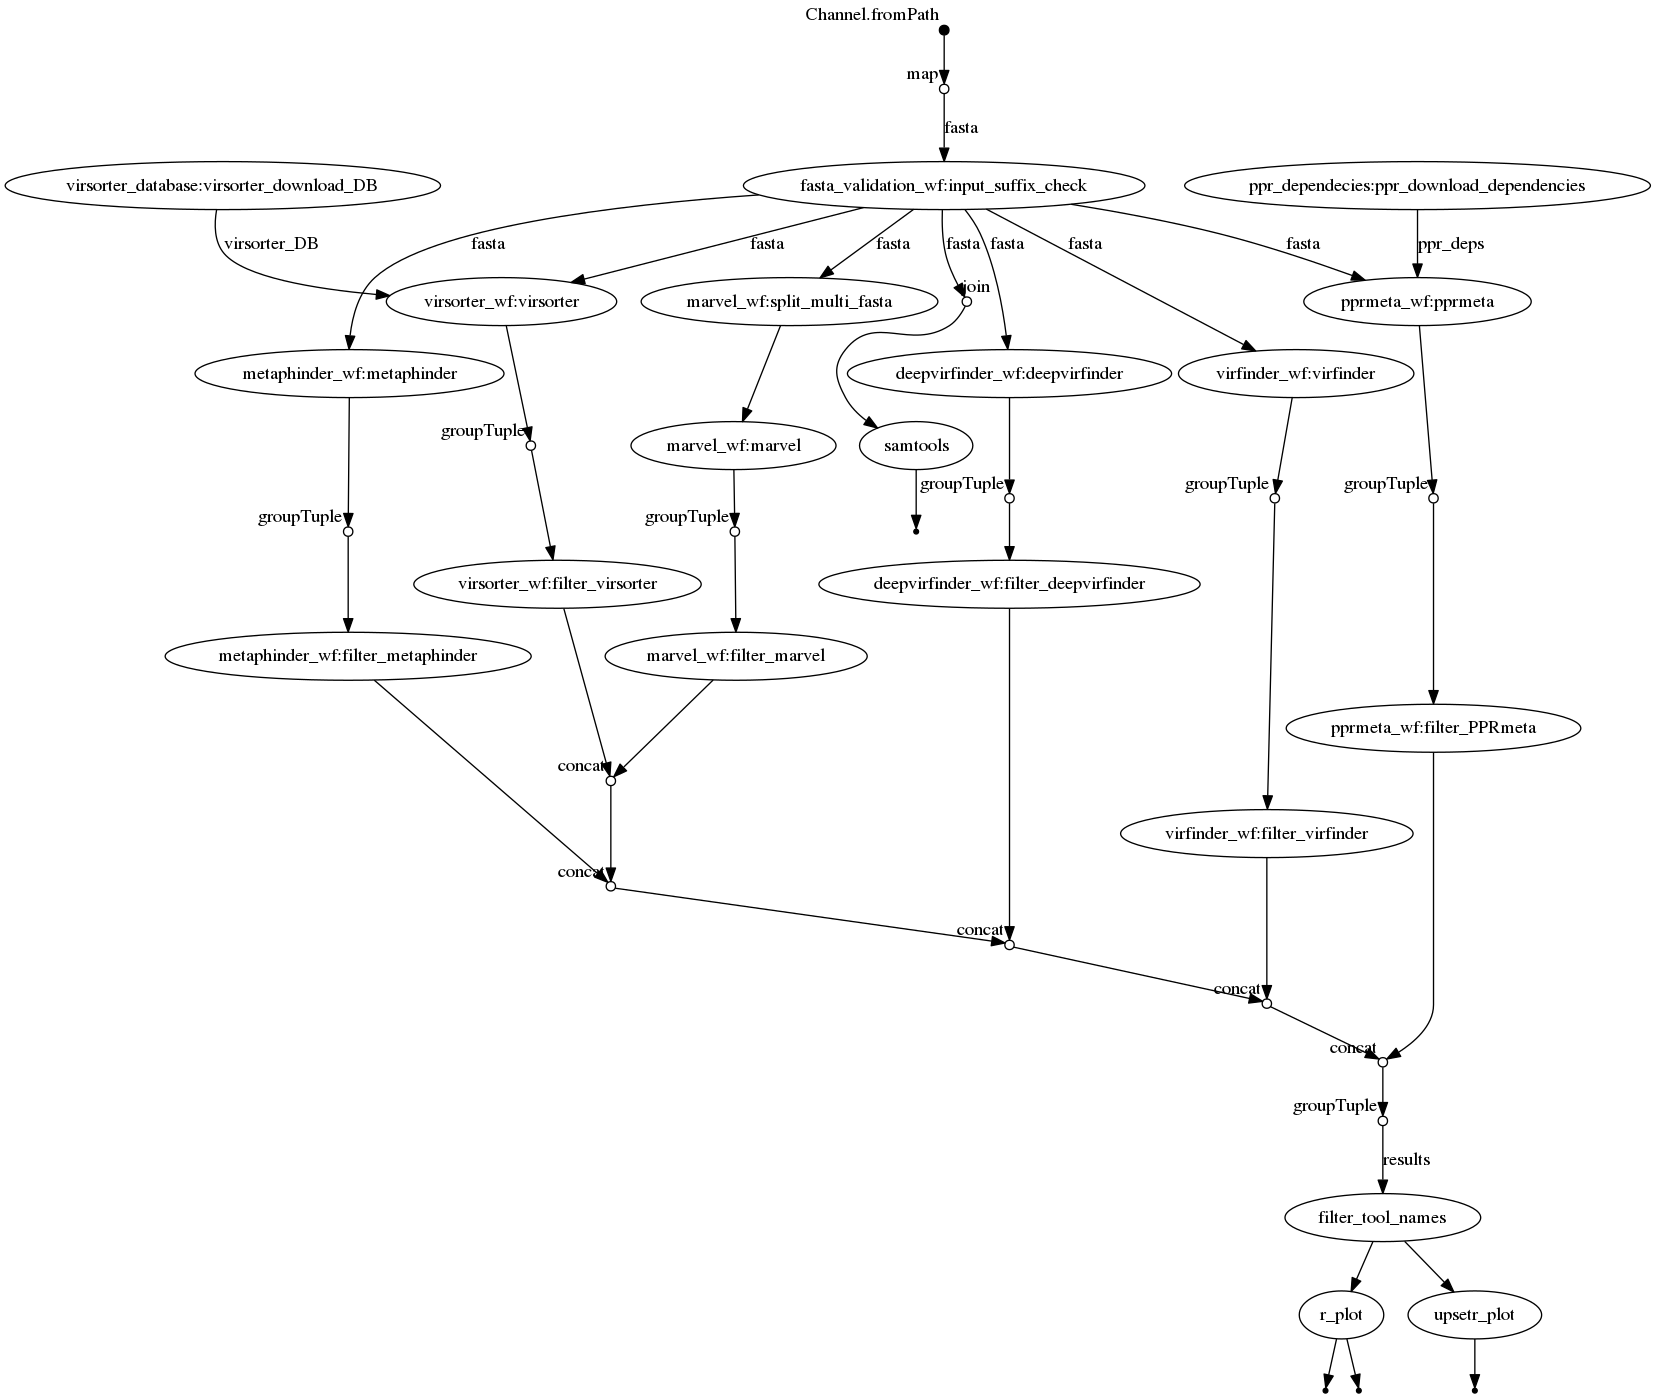
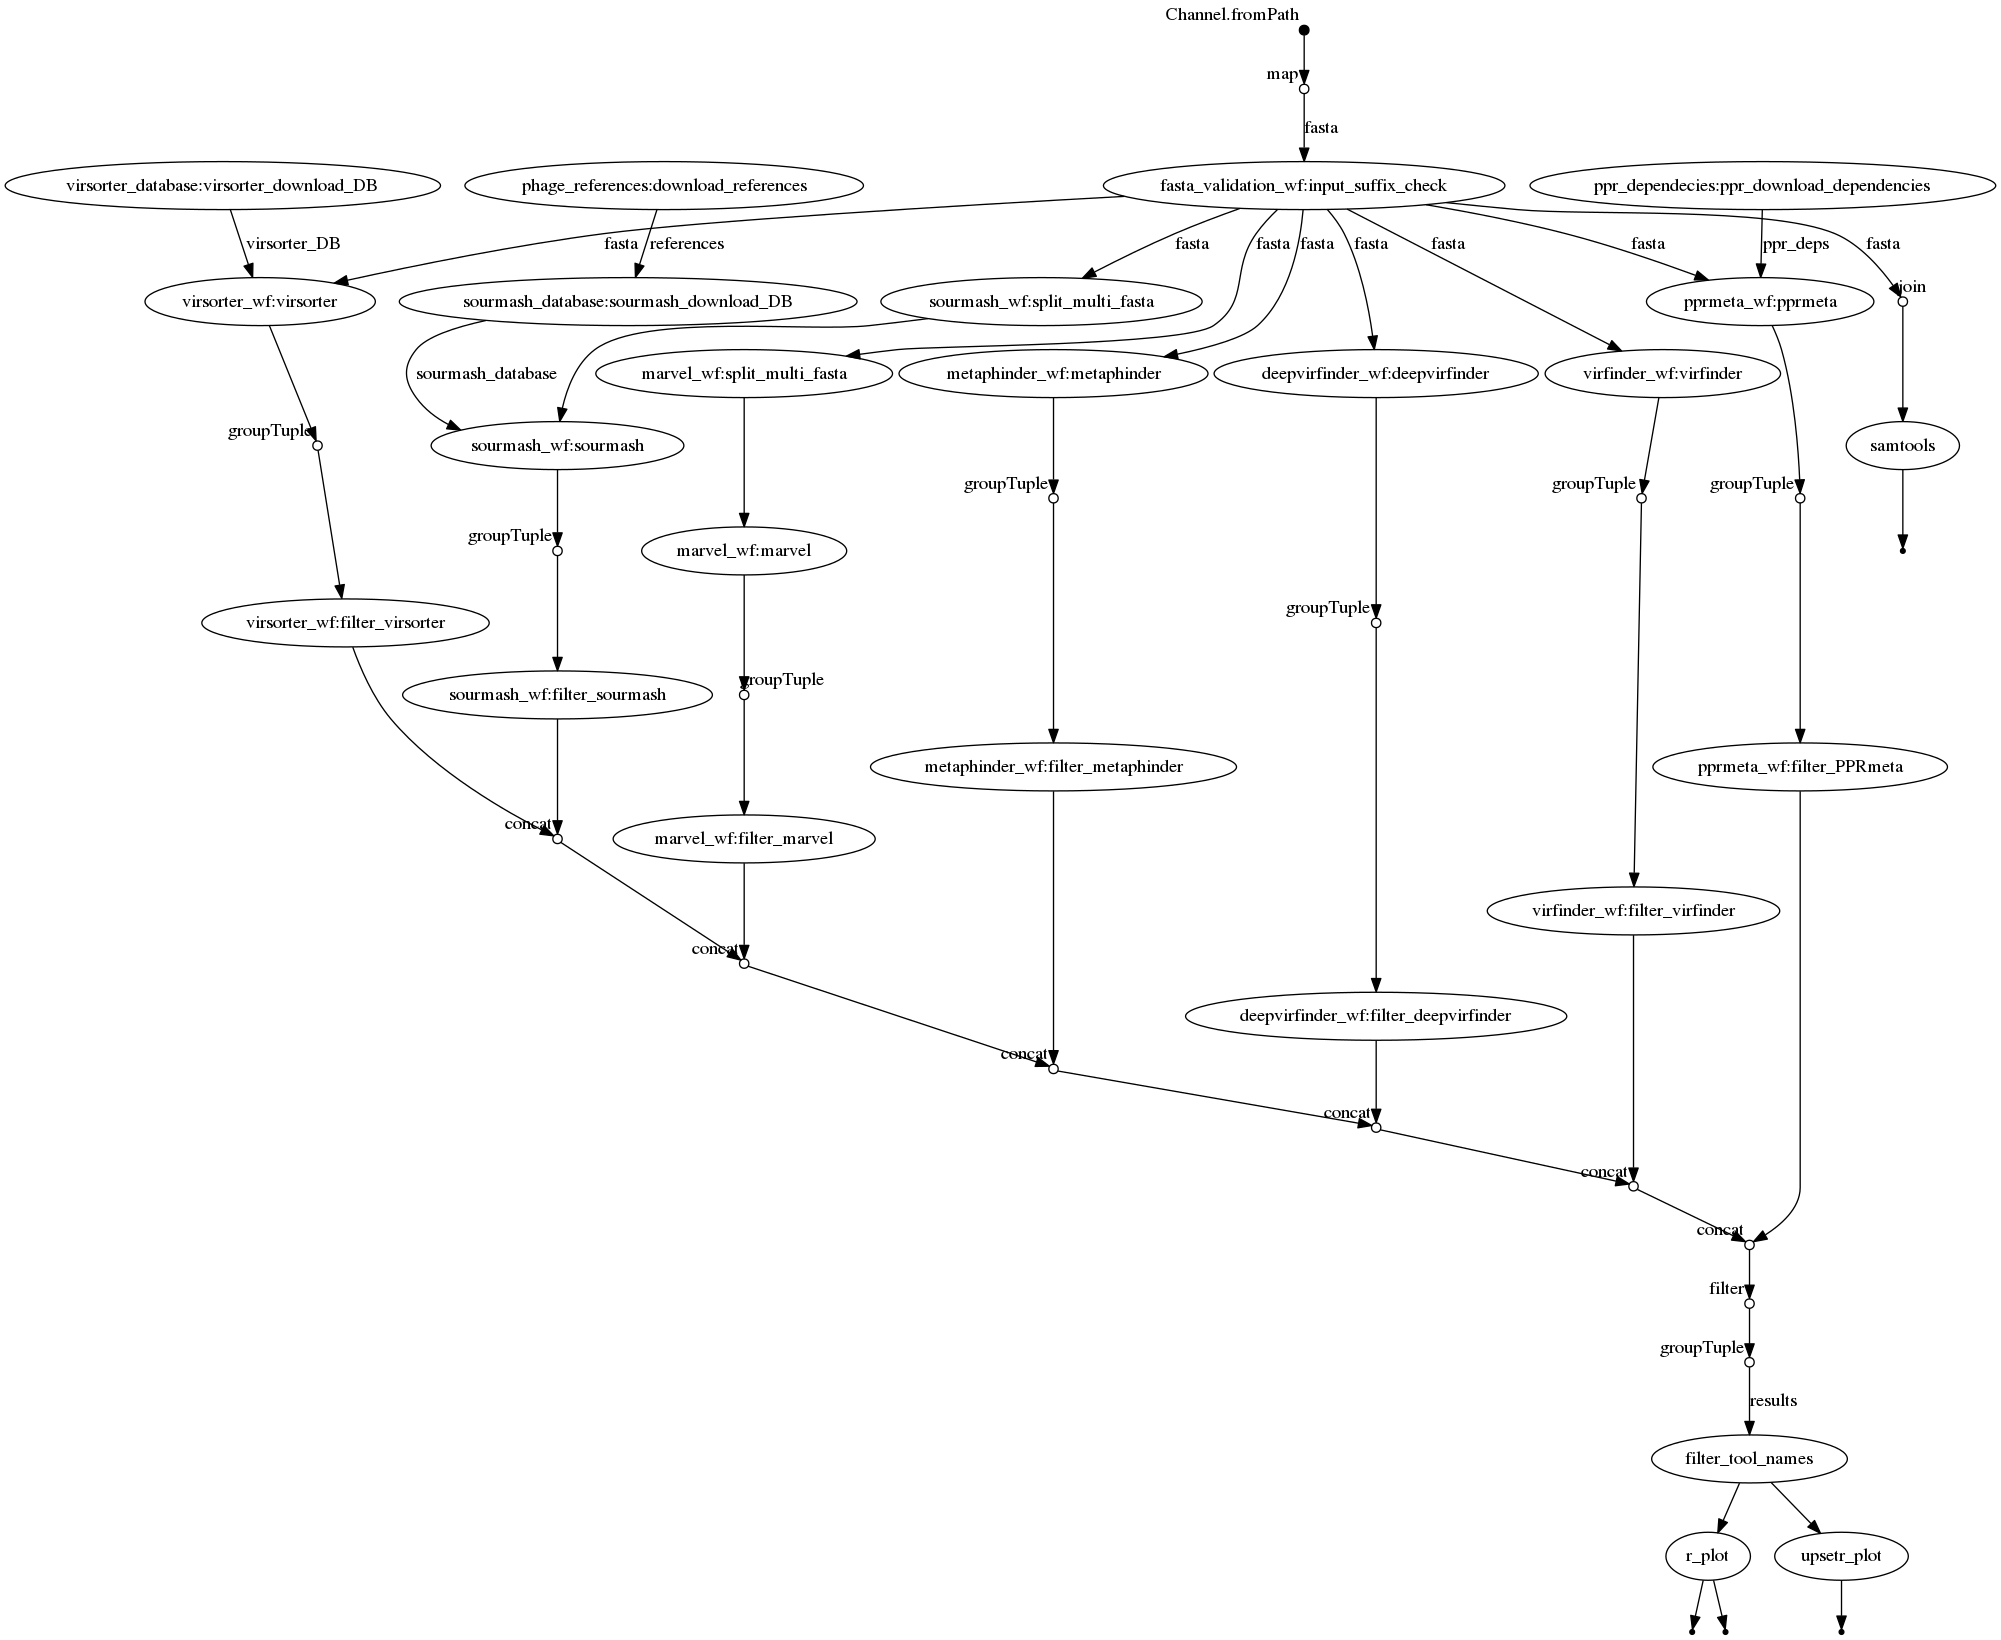
readme clarifications

diff --git a/README.md b/README.md
@@ -7,14 +7,17 @@
 
 ![](https://github.com/replikation/What_the_Phage/workflows/Syntax_check/badge.svg)
 
+[![Twitter Follow](https://img.shields.io/twitter/follow/gcloudChris.svg?style=social)](https://twitter.com/gcloudChris) 
+
 * by Christian Brandt & Mike Marquet
-* **this tool is currently under heavy development, so expect bugs but feel free to report issues**
+* **this tool is currently under heavy development, so expect some bugs but feel free to report issues**
 
 ## What is this Repo?
 
 * an attempt to streamline the usage of various phage identification and prediction tools
 * the main focus is stability an data filtering / analysis for the user
-* the tool is intended for fasta and nanopore fastq reads
+* the tool is intended for fasta and nanopore fastq reads to identify phages in contigs/reads
+* prophage detection is not implemented
 
 ## The following Phage-Tools are currently included
 
@@ -30,6 +33,8 @@
   * [paper](https://journals.plos.org/plosone/article?id=10.1371/journal.pone.0163111)
 * [DeepVirFinder](https://github.com/jessieren/DeepVirFinder)
   * [paper](https://arxiv.org/abs/1806.07810)
+* [Sourmash](https://github.com/dib-lab/sourmash)
+  * [paper](https://joss.theoj.org/papers/10.21105/joss.00027)
 
 ## Workflow
 
@@ -59,62 +64,61 @@ sudo usermod -a -G docker $USER
 * try out the installation by entering the following
 
 ```bash
-nextflow run replikation/What_the_Phage --fasta ~/.nextflow/assets/replikation/What_the_Phage/test-data/T7_draft.fa
+nextflow run replikation/What_the_Phage -r v0.1 --fasta ~/.nextflow/assets/replikation/What_the_Phage/test-data/T7_draft.fa
 ```
-
-* for your own fasta file called e.g. `sample01.fasta` do:
-
-```bash
-nextflow run replikation/What_the_Phage --fasta sample01.fasta
-```
-
-* for multiple files/samples, e.g. with in one folder do:
-
-```bash
-nextflow run replikation/What_the_Phage --fasta '*.fasta'
-```
-
-* long-read input is supported via `--fastq`
 
 ### Normal Installation
+
+* this is the default choice
 
 **Dependencies**
 
 >   * docker (add docker to your Usergroup, so no sudo is needed)
 >   * nextflow + java runtime 
->   * git (should be allready installed)
->   * wget (should be allready installed)
->   * tar (should be allready installed)
+>   * git (should be already installed)
+>   * wget (should be already installed)
+>   * tar (should be already installed)
 
 * Docker installation [here](https://docs.docker.com/v17.09/engine/installation/linux/docker-ce/ubuntu/#install-docker-ce)
 * Nextflow installation [here](https://www.nextflow.io/)
 * move or add the nextflow executable to a bin path
-* add docker to ypur User group via `sudo usermod -a -G docker $USER`
+* add docker to your User group via `sudo usermod -a -G docker $USER`
 
 
 ## Execution
 
-* for local use you could either clone the git and do:
+* for local use of the `master` branch you could either clone the git and do:
 
 ```bash
 ./phage.nf --fasta 'test-data/*.fasta'
 ```
 
-* or execute it directly via 
+* or execute it directly via a release candidate ( `-r releasenumber` , e.g. `-r v0.1`)
 
 ```bash
-nextflow run replikation/What_the_Phage --fasta 'your-fasta-files/*.fasta'
+nextflow run replikation/What_the_Phage -r v0.1 --fasta 'your-fasta-files/*.fasta'
 # or
-nextflow run replikation/What_the_Phage --fasta your-file.fasta
+nextflow run replikation/What_the_Phage -r v0.1 --fasta your-file.fasta
 ```
 
 * long-read input is supported via `--fastq`
+
+### Tool control
+
+* all the analysis tools included can be separatly turned via adding the option flags
+* do `nextflow run replikation/What_the_Phage -r v0.1 --help` for all options
+
+```bash
+# in this case Marvel (ma) and deepvirfinder (dv) are deactivated
+nextflow run replikation/What_the_Phage -r v0.1 --fasta your-file.fasta --dv --ma
+```
+
 
 ## Results
 
 * example output:
 
-![ploz](figures/plot.png)
+![plot](figures/plot.png)
 
 ## Help
 
